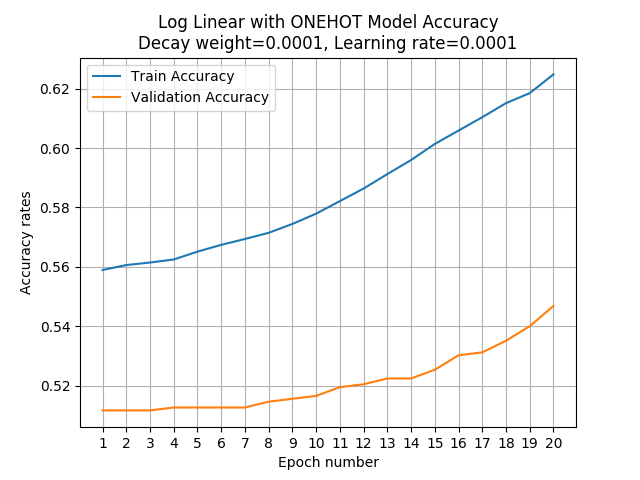
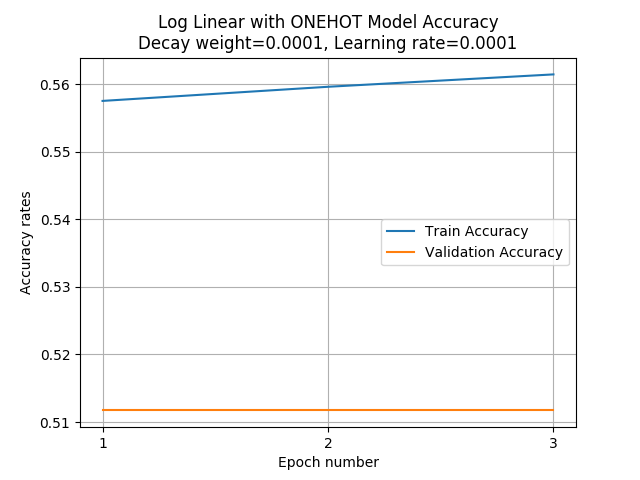
debug w2v

diff --git a/exercise_blanks.py b/exercise_blanks.py
@@ -16,6 +16,7 @@ from tqdm import tqdm
 from matplotlib import pyplot as plt
 from operator import add
 
+
 # print(torch.__version__)
 
 
@@ -129,10 +130,10 @@ def get_w2v_average(sent, word_to_vec, embedding_dim):
     :return The average embedding vector as numpy ndarray.
     """
     avg = np.ndarray(embedding_dim)
-    for word in sent:
+    for word in sent.text:
         embedding = word_to_vec[word]
         avg += embedding
-    avg = avg/len(sent)
+    avg = avg/len(sent.text)
     return avg
 
 
@@ -520,7 +521,7 @@ def train_log_linear_with_w2v(lr, n_epochs, weight_decay):
     data_manager = DataManager(batch_size=size, embedding_dim=W2V_EMBEDDING_DIM, data_type=W2V_AVERAGE)
     # test_iterator = DataManager(batch_size=size, embedding_dim=W2V_EMBEDDING_DIM).get_torch_iterator(data_subset=TEST)
 
-    embedding_dimension = len(data_manager.sentiment_dataset.get_word_counts())
+    # embedding_dimension = len(data_manager.sentiment_dataset.get_word_counts())
 
     # number of distinct words in the corpus
     log_linear_w2v = LogLinear(embedding_dim=W2V_EMBEDDING_DIM)
@@ -551,7 +552,7 @@ def plot_graphs(name_of_model, train_acc, train_loss, val_acc, val_loss, n_epoch
     :param val_loss
     """
 
-    dir_path = "plots/"
+    dir_path = ("plots") + os.sep
     w_decimal = str(w_decay).replace('.','')
     epoch_numbers = list(range(n_epochs))
     epoch_numbers = list(map(add, epoch_numbers,[1]*n_epochs))
@@ -606,7 +607,7 @@ def Q2(lr, weights_array, n_epochs):
 
 def main():
     weights_array = [0, 0.0001, 0.001]
-    n_epochs = 20
+    n_epochs = 3
     lr = 0.0001
     Q2(lr, weights_array, n_epochs)
 
